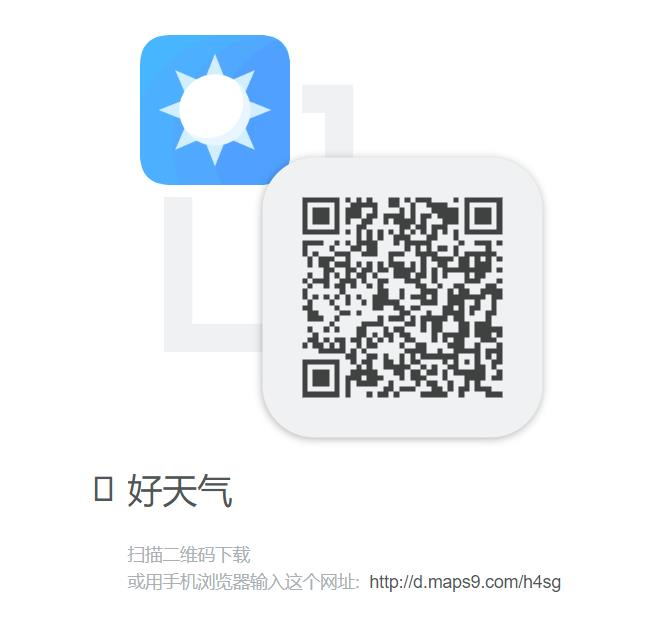
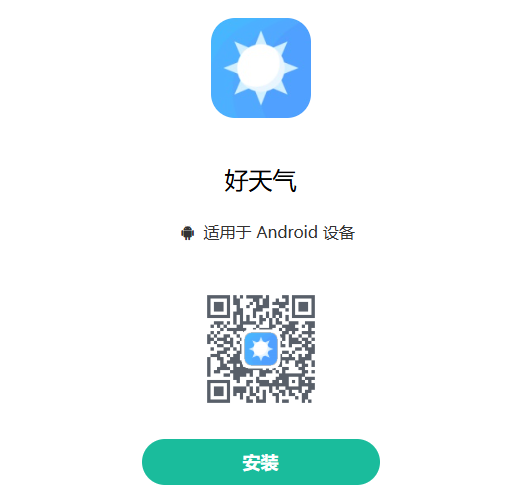
更新下载Apk信息

Changed region(s): [[0.2141, 0.0299, 0.826, 0.8084], [0.1836, 0.8683, 0.8872, 0.988], [0.1224, 0.7485, 0.3671, 0.8383]]

diff --git a/app/src/main/java/com/llw/goodweather/utils/Constant.java b/app/src/main/java/com/llw/goodweather/utils/Constant.java
@@ -10,7 +10,7 @@ public class Constant {
     /**
      * 和风天气KEY，此处的key替换为自己的，不要问我为什么？我的账号都被封了！！！
      */
-    public static final String API_KEY = "7050755a26cc4b88ab116a5b35797d7f";
+    public static final String API_KEY = "Your Key";
     /**
      * 更新APP的用户Id
      */

diff --git a/README.md b/README.md
@@ -46,7 +46,7 @@ GIF看不了的，打开下面的视频地址进行观看<br>
 
 ## 网址下载
 
-点击下载[好天气APP](http://d.maps9.com/h4sg)<br>
+点击下载[好天气APP](https://www.pgyer.com/z4BytAv7)<br>
 
 ## 扫码下载
 ![下载图片](https://github.com/lilongweidev/GoodWeather/blob/master/download/code.png)<br>
